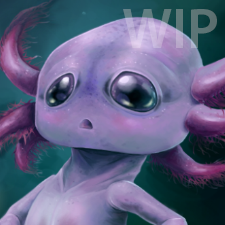
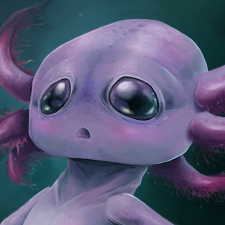
Added new project
Added Final Axotlol project

diff --git a/docs/projects/alien-axolotl/index.html b/docs/projects/alien-axolotl/index.html
@@ -5,15 +5,17 @@
     <meta name="viewport" content="width=device-width, initial-scale=1,
     maximum-scale=1, user-scalable=no">
     <meta name="author" content="Beatriz Alonso">
-    <title>Beatriz Alonso - Online Portfolio - Project - Alien Axolotl WIP</title>
+    <title>Beatriz Alonso - Online Portfolio - Project - Alien Axolotl</title>
     <link rel="stylesheet" href="/styles/base.css" media="screen">
     <link rel="stylesheet" href="/styles/project.css" media="screen">
     <meta property="og:site_name" content="" />
     <meta property="og:type" content="article" />
-    <meta property="og:title" content="Alien Axolotl WIP" />
-    <meta property="og:description" content="&lt;p&gt;My new thing! I am still working on it, so as soon as it is finished, I will put it here.&lt;/p&gt;
+    <meta property="og:title" content="Alien Axolotl" />
+    <meta property="og:description" content="&lt;p&gt;My new thing!&lt;/p&gt;
+    &lt;p&gt;I absolutely love Axolotls; I love their skin and the fins and that cute smile on their faces! They are so strange that seem like little underwater aliens. So thinking about that, the image came to my mind and I decided to paint it. Everything is made entirely in Photoshop, and although it took me more time than expected, it made me really happy.&lt;/p&gt;
+    &lt;p&gt;Since many people don&amp;#39;t know Axolotls, please check &lt;a href&#x3D;&quot;https://es.wikipedia.org/wiki/Ambystoma_mexicanum&quot;&gt;here&lt;/a&gt; if you want to know more about them.&lt;/p&gt;
     " />
-    <meta property="og:url" content="https://beaconpancakes.com/projects/alien-axolotl-wip" />
+    <meta property="og:url" content="https://beaconpancakes.com/projects/alien-axolotl" />
     <meta property="og:image" content="http://beaconpancakes.com/imgs/thumbs/Axolotl.png" />
     <meta name="twitter:card" content="summary" />
     <meta name="twitter:creator" content="@beaconpancakes" />
@@ -57,14 +59,19 @@
     </nav>
     <main>
       <section class="gallery">
-        <a href="/imgs/AxolotlWIP.png" target="_blank">
-          <img src="/imgs/AxolotlWIP.png" alt="Axolotl Alien Underwater Illustration" />
+        <a href="/imgs/Axolotl00.png" target="_blank">
+          <img src="/imgs/Axolotl00.png" alt="Axolotl Alien Underwater Illustration" />
+        </a>
+        <a href="/imgs/Axolotl01.png" target="_blank">
+          <img src="/imgs/Axolotl01.png" alt="Axolotl Alien Underwater Illustration Detail" />
         </a>
       </section>
       <aside>
         <div id="project-detail-wrapper">
-          <h3>Alien Axolotl WIP</h3>
-          <p>My new thing! I am still working on it, so as soon as it is finished, I will put it here.</p>
+          <h3>Alien Axolotl</h3>
+          <p>My new thing!</p>
+<p>I absolutely love Axolotls; I love their skin and the fins and that cute smile on their faces! They are so strange that seem like little underwater aliens. So thinking about that, the image came to my mind and I decided to paint it. Everything is made entirely in Photoshop, and although it took me more time than expected, it made me really happy.</p>
+<p>Since many people don&#39;t know Axolotls, please check <a href="https://es.wikipedia.org/wiki/Ambystoma_mexicanum">here</a> if you want to know more about them.</p>
 
           <h4>Tools</h4>
           <img src="/imgs/icons/tools/photoshop.png" alt="photoshop"

diff --git a/docs/index.html b/docs/index.html
@@ -60,8 +60,8 @@
       <main id="page-home">
         <h2>Home</h2>
         <div id="project-grid-wrapper">
-          <a href="projects/alien-axolotl-wip">
-            <img src="/imgs/thumbs/Axolotl.png" alt="Alien Axolotl WIP" />
+          <a href="projects/alien-axolotl">
+            <img src="/imgs/thumbs/Axolotl.png" alt="Alien Axolotl" />
           </a>
           <a href="projects/inktober-2017-birds">
             <img src="/imgs/thumbs/InktoberBirds.png" alt="Inktober 2017 Birds" />

diff --git a/docs/projects/inktober-2017-birds/index.html b/docs/projects/inktober-2017-birds/index.html
@@ -56,7 +56,7 @@
       </p>
     </header>
     <nav id="project-nav-left" class="project-shell project-nav">
-      <a href="/projects/alien-axolotl-wip"></a>
+      <a href="/projects/alien-axolotl"></a>
     </nav>
     <main>
       <section class="gallery">

diff --git a/src/projects/0789-AlienAxolotl.md b/src/projects/0789-AlienAxolotl.md
@@ -1,16 +1,23 @@
 ---
 layout: project.html
 collection: projects
-title: Alien Axolotl WIP
+title: Alien Axolotl
 thumb: Axolotl.png
 order: 0789
 images:
   -
-    name: AxolotlWIP.png
+    name: Axolotl00.png
     alt: Axolotl Alien Underwater Illustration
+  -
+    name: Axolotl01.png
+    alt: Axolotl Alien Underwater Illustration Detail
 
 tools:
   - photoshop
 ---
 
-My new thing! I am still working on it, so as soon as it is finished, I will put it here.
+My new thing!
+
+I absolutely love Axolotls; I love their skin and the fins and that cute smile on their faces! They are so strange that seem like little underwater aliens. So thinking about that, the image came to my mind and I decided to paint it. Everything is made entirely in Photoshop, and although it took me more time than expected, it made me really happy.
+
+Since many people don't know Axolotls, please check [here](https://es.wikipedia.org/wiki/Ambystoma_mexicanum) if you want to know more about them.
